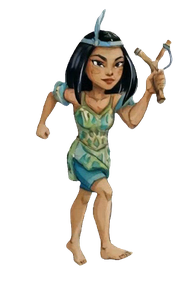
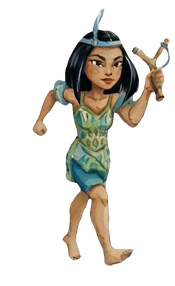
animação indigena

Changed region(s): [[0.1714, 0.028, 1.0, 0.951], [0.6857, 0.4196, 0.8, 0.4755], [0.8, 0.3916, 0.8286, 0.4196]]

diff --git a/src/entities/player.py b/src/entities/player.py
@@ -17,11 +17,24 @@ class Player(pygame.sprite.Sprite):
         self.no_ar = True
         self.flip = False
 
-        self.imagem_normal = pygame.image.load("assets/images/indio.png").convert_alpha()
-        self.imagem_normal = pygame.transform.rotozoom(self.imagem_normal, 0, 2)
-        self.imagem_invertida = pygame.transform.flip(self.imagem_normal, True, False)
-        
-        self.image = self.imagem_normal
+        # --- Configuração da Animação ---
+        self.frame_index = 0
+        self.animation_speed = 0.5  # Com 35 frames, 0.5 é um bom começo
+        self.frames_andar = []
+        self.frames_parado = []
+
+        for i in range(35):
+            img = pygame.image.load(f"assets/images/indigena/indigena_correndo{i}.png").convert_alpha()
+            img = pygame.transform.rotozoom(img, 0, 0.35)
+            self.frames_andar.append(img)
+
+        for i in range(36):
+            img = pygame.image.load(f"assets/images/indigena/indigena{i}.png").convert_alpha()
+            img = pygame.transform.rotozoom(img, 0, 0.35)
+            self.frames_parado.append(img)
+            
+        # Atributos iniciais do sprite
+        self.image = self.frames_andar[self.frame_index]
         self.rect = self.image.get_rect(midbottom = (80, 500))
         self.mask = pygame.mask.from_surface(self.image)
     
@@ -30,8 +43,6 @@ class Player(pygame.sprite.Sprite):
 
         mov_esq = False
         mov_dir = False
-        
-
         keys = pygame.key.get_pressed()
 
         # Movimentação lateral
@@ -40,7 +51,6 @@ class Player(pygame.sprite.Sprite):
         if keys[pygame.K_RIGHT] or keys[pygame.K_d]:
             mov_dir = True
 
-        # Impedir direções simultâneas
         if mov_esq and not mov_dir:
             self.vel_x = -velocidade
             self.flip = True
@@ -48,12 +58,12 @@ class Player(pygame.sprite.Sprite):
             self.vel_x = velocidade
             self.flip = False
         
-        # Inércia de movimento 
-        # Maior no ar do que no chão
+        # Inércia
         if not self.no_ar: 
             inercia_x = 1.5
             pulo_duplo = False
-        else: inercia_x = 0.7
+        else: 
+            inercia_x = 0.7
 
         if self.vel_x < 0:
             self.vel_x += inercia_x
@@ -64,39 +74,56 @@ class Player(pygame.sprite.Sprite):
 
         self.rect.x += self.vel_x
 
-        # Movimentação vertical
-        # Pulo duplo   
+        # Pulo e Gravidade
         if pulo_duplo: pulo_duplo_timer += 1
         else: pulo_duplo_timer = 0
         
-        # keys[pygame.K_UP] and not tecla_cima tem comportamento semelhante ao KEYDOWN
         if (keys[pygame.K_UP] or keys[pygame.K_w]) and not tecla_cima and self.no_ar and pulo_duplo and pulo_duplo_timer >= 12:
             pulo_duplo = False
             self.vel_y = -20
         
-        # Pulo normal
         if (keys[pygame.K_UP] or keys[pygame.K_w]) and not tecla_cima and not self.no_ar:
             self.vel_y = -25
             pulo_duplo = True
 
         tecla_cima = (keys[pygame.K_UP] or keys[pygame.K_w])
 
-        
-
-        # Gravidade atua até atingir a velocidade terminal
-        # 25 é a velocidade terminal
         if self.vel_y <= 25:
             self.vel_y += gravidade
 
         self.rect.y += self.vel_y
 
-    def sprites(self):
-        if self.flip:
-            self.image = self.imagem_invertida
+    def animar(self):
+        # Seleciona a lista de frames baseada no estado do personagem
+        if self.no_ar:
+            # Se estiver no ar, usamos um frame fixo da corrida (ou um de pulo se tiver)
+            frame_atual = self.frames_andar[5]
+            
+        elif self.vel_x != 0:
+            # correndo
+            self.frame_index += self.animation_speed
+            if self.frame_index >= len(self.frames_andar):
+                self.frame_index = 0
+            frame_atual = self.frames_andar[int(self.frame_index)]
+            
         else:
-            self.image = self.imagem_normal
+            # parado
+            self.frame_index += self.animation_speed
+            if self.frame_index >= len(self.frames_parado):
+                self.frame_index = 0
+            frame_atual = self.frames_parado[int(self.frame_index)]
+
+        # salva a posição atual da base antes de mudar a imagem
+        pos_chao_atual = self.rect.midbottom 
+
+        # aplica a nova imagem
+        self.image = pygame.transform.flip(frame_atual, self.flip, False)
+        
+        # cria o novo rect, mas "prende" ele na posição do chão salva
+        self.rect = self.image.get_rect(midbottom = pos_chao_atual)
+        
+        self.mask = pygame.mask.from_surface(self.image)
 
     def update(self):
         self.movimentacao()
-        self.sprites()
-
+        self.animar()

diff --git a/main.py b/main.py
@@ -42,7 +42,6 @@ while True:
     colisao(player.sprite, objetos_solidos, parede)
     colidiu = pygame.sprite.spritecollide(player.sprite, coletaveis, True, pygame.sprite.collide_mask)
 
-    
     # Desenha objetos sólidos
     for sprite in objetos_solidos:
         screen.blit(sprite.image, camera.aplicar_rect(sprite))
